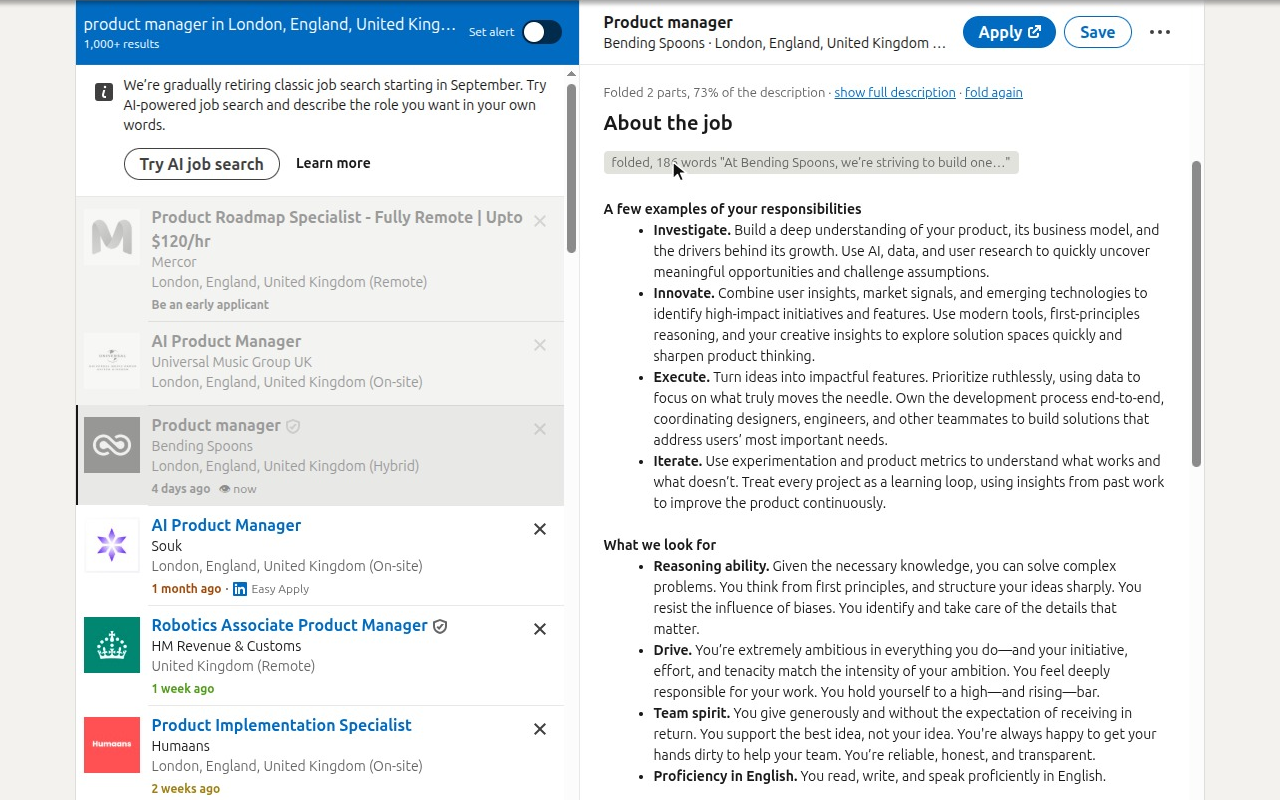
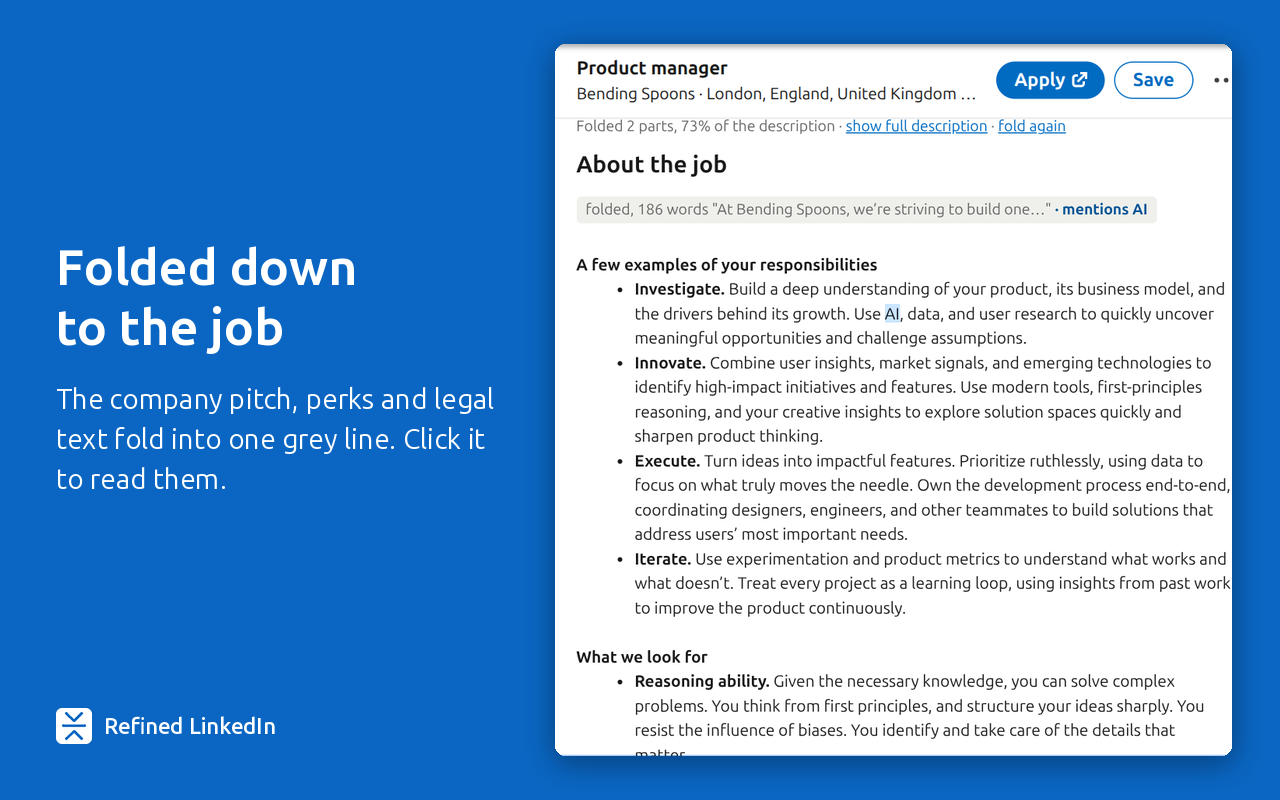
Show 0.12 in the store screenshots, each with a line on what it shows
The store's four screenshots were taken on 0.7.0: no words as pills, no first dates on reposts, no remote switch.
They were also bare screenshots of the whole LinkedIn page, with nothing pointing at what to look at.

There are now five, in the pattern the popular listings use (Grammarly, Loom, Simplify, Teal): a short headline and
one line on the brand blue, next to a cropped picture of the one part of LinkedIn it is about. The pictures are
stills from real LinkedIn on 0.12.1, taken at 1.5 times the page's pixels, so the job text shows at about 16 pixels
in the 1280×800 image. They show the folded description, the list with words, seen jobs, ages and a repost's first
date, the remote switch in the pop-up with the cards it greys, a note on a sentence, and the settings.

Refs #51

diff --git a/docs/store/listing.md b/docs/store/listing.md
@@ -34,8 +34,8 @@ Not made or endorsed by LinkedIn, and I'd like to keep it that way.
 
 **Category:** Workflow & Planning. **Language:** English.
 
-**Images,** in `docs/store/`: the icon is `icons/icon128.png`; screenshots 1 to 4 (1280×800); small promo tile
-`promo-small-440x280.png`.
+**Images,** in `docs/store/`: the icon is `icons/icon128.png`; screenshots 1 to 5 (1280×800), in the order of their
+numbers; small promo tile `promo-small-440x280.png`.
 
 **Homepage and support:** https://github.com/testy-cool/refined-linkedin and
 https://github.com/testy-cool/refined-linkedin/issues
